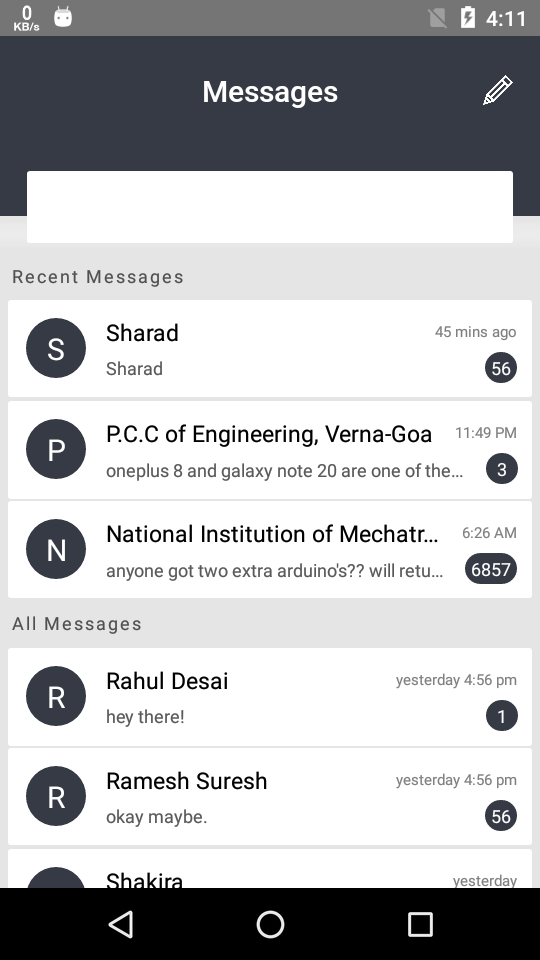
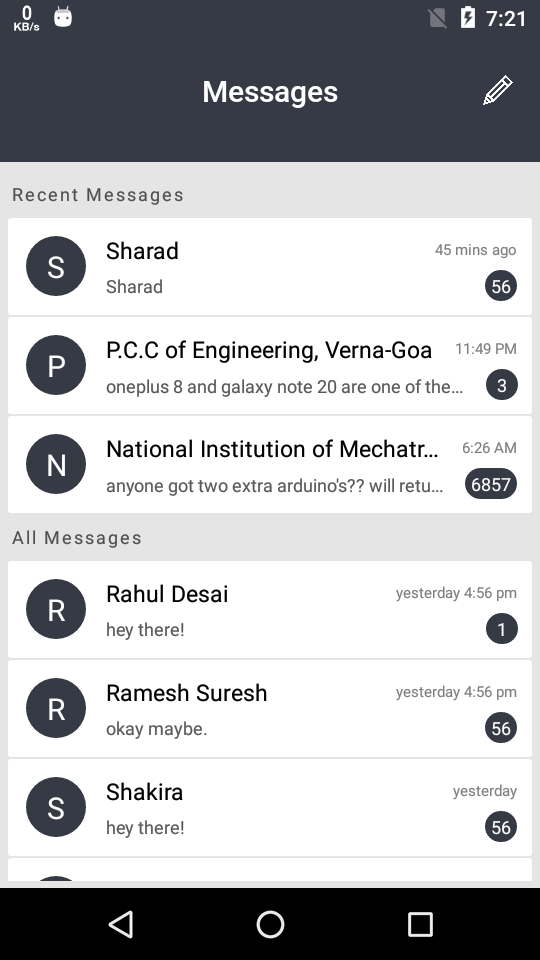
APP: Chat Section margin fixed, Screenshot updated

diff --git a/Client/ReactNative/Message/src/Screens/App/HomeScreen/ChatsListScreen/ChatsListScreen.tsx b/Client/ReactNative/Message/src/Screens/App/HomeScreen/ChatsListScreen/ChatsListScreen.tsx
@@ -25,8 +25,9 @@ const ChatsListScreen = ({
   return (
     <>
       <View style={Styles.body}>
-        <ChatsListHeaderSearch />
-        <ScrollView showsVerticalScrollIndicator={false}>
+        <ScrollView
+          style={Styles.bodyScrollView}
+          showsVerticalScrollIndicator={false}>
           <View style={Styles.messagesGroupHeader}>
             <Text style={Styles.messagesGroupHeaderText}>Recent Messages</Text>
           </View>

diff --git a/Client/ReactNative/Message/src/Screens/App/HomeScreen/ChatsListScreen/ChatsListScreenStyles.ts b/Client/ReactNative/Message/src/Screens/App/HomeScreen/ChatsListScreen/ChatsListScreenStyles.ts
@@ -23,7 +23,9 @@ const Styles = StyleSheet.create({
     backgroundColor: GlobalStyles.body.backgroundColor,
     position: 'relative',
   },
-  searchBar: {},
+  bodyScrollView: {
+    marginVertical: 5,
+  },
   messagesGroupHeader: {
     margin: 7,
   },

diff --git a/Client/ReactNative/Message/src/Components/ChatsListSection/ChatsListSectionStyles.ts b/Client/ReactNative/Message/src/Components/ChatsListSection/ChatsListSectionStyles.ts
@@ -8,7 +8,7 @@ const Styles = StyleSheet.create({
     width: '97%',
     alignSelf: 'center',
     borderRadius: 2,
-    marginVertical: 1,
+    marginTop: 1,
     flex: 1,
     flexDirection: 'row',
   },
